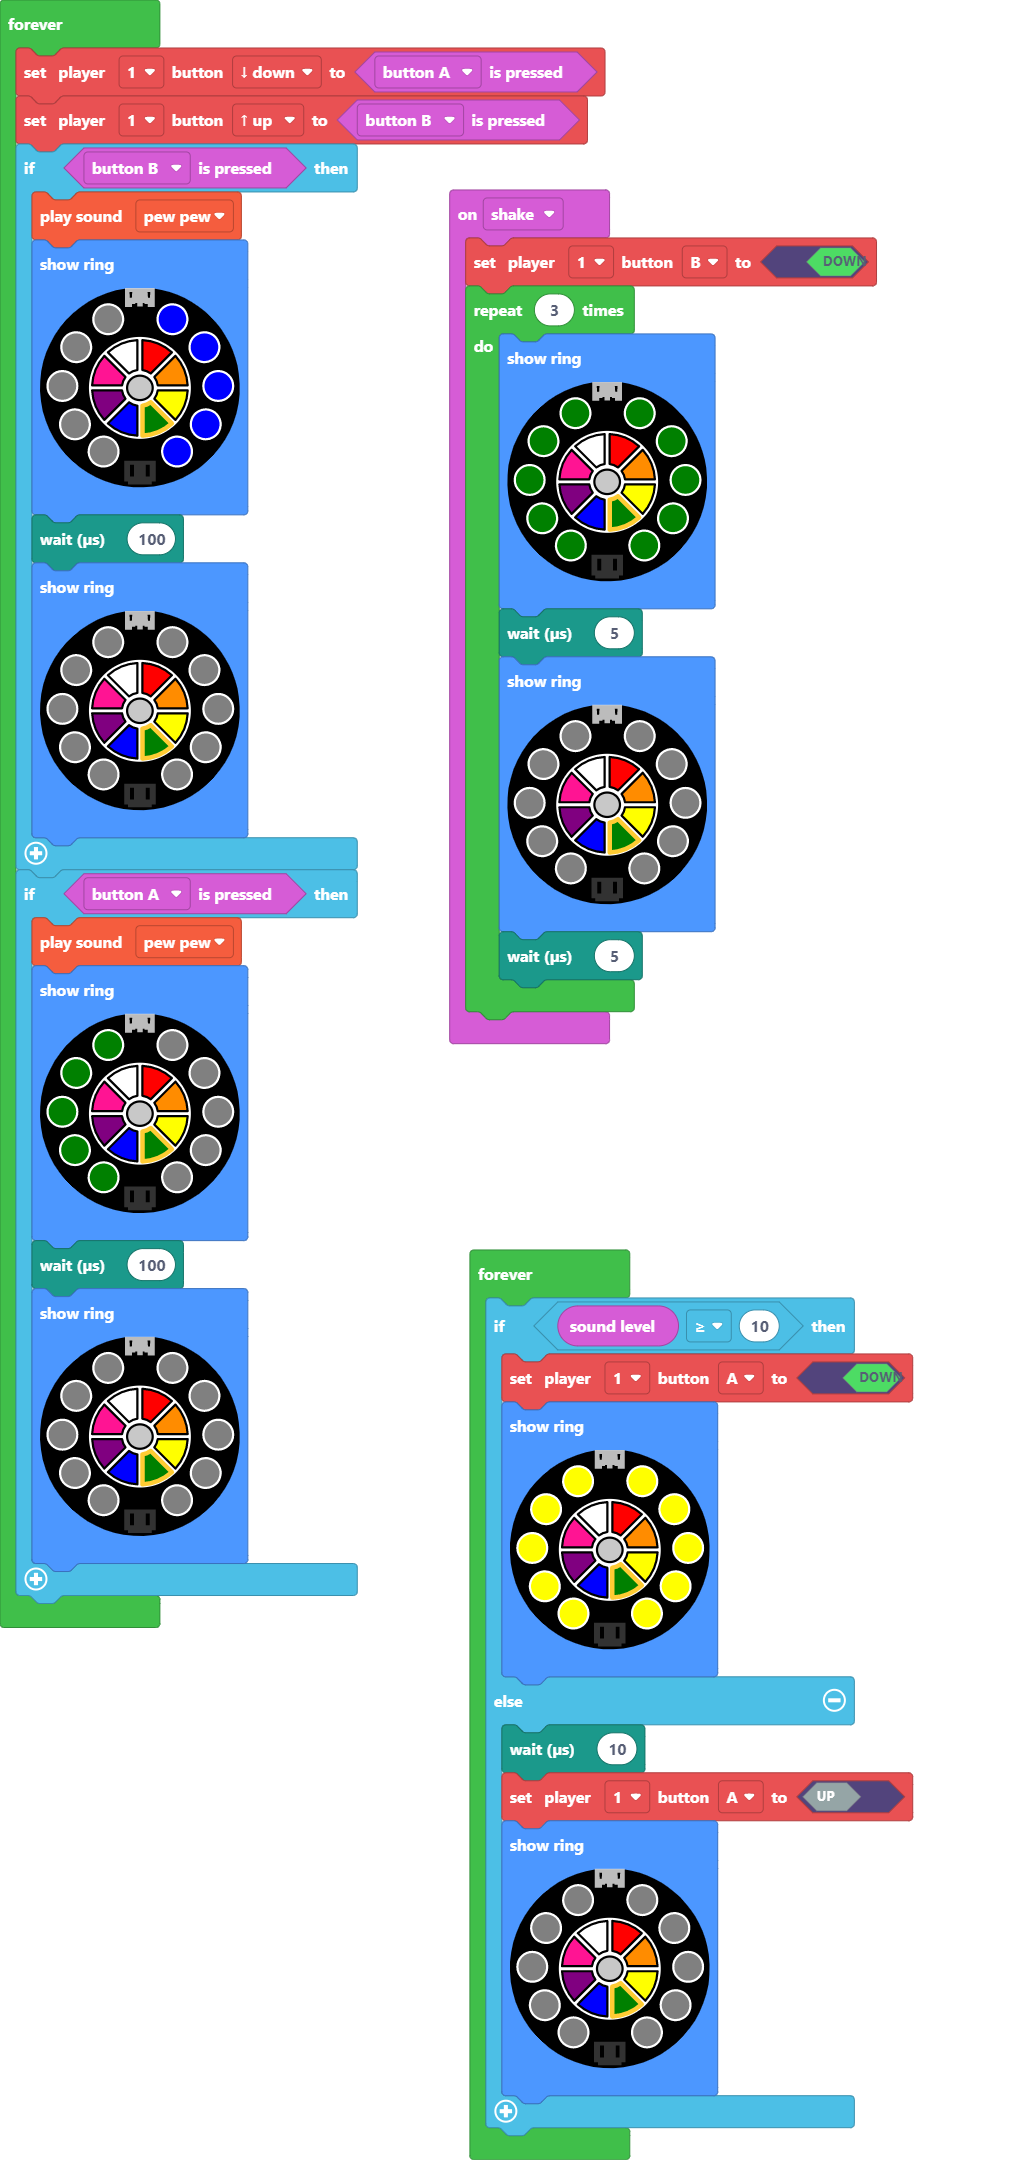
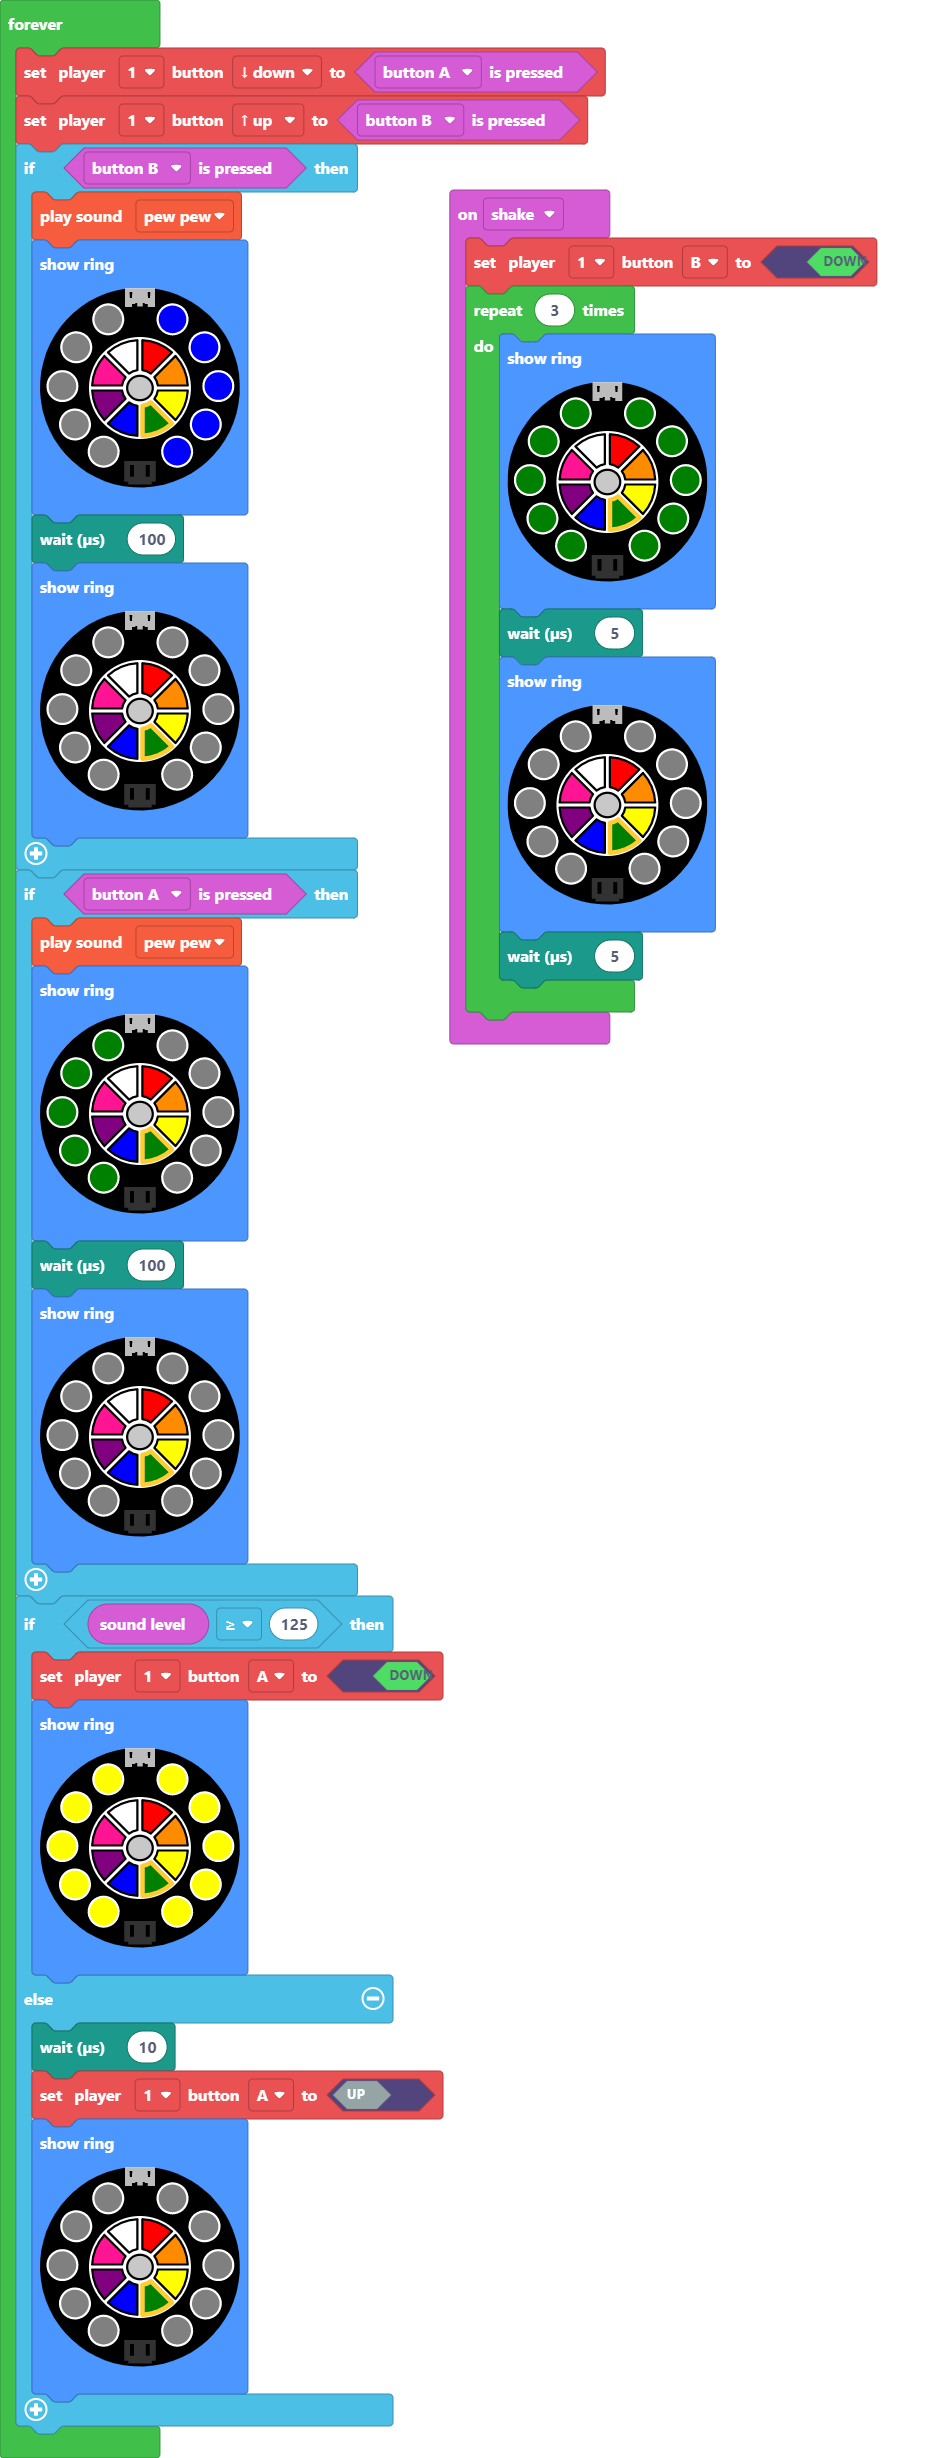
Update main.blocks, main.ts

diff --git a/main.ts b/main.ts
@@ -34,9 +34,7 @@ forever(function () {
         `black black black black black black black black black black`
         )
     }
-})
-forever(function () {
-    if (input.soundLevel() >= 10) {
+    if (input.soundLevel() >= 125) {
         makerController.player1.setButton(ArcadeButton.A, true)
         light.showRing(
         `yellow yellow yellow yellow yellow yellow yellow yellow yellow yellow`
